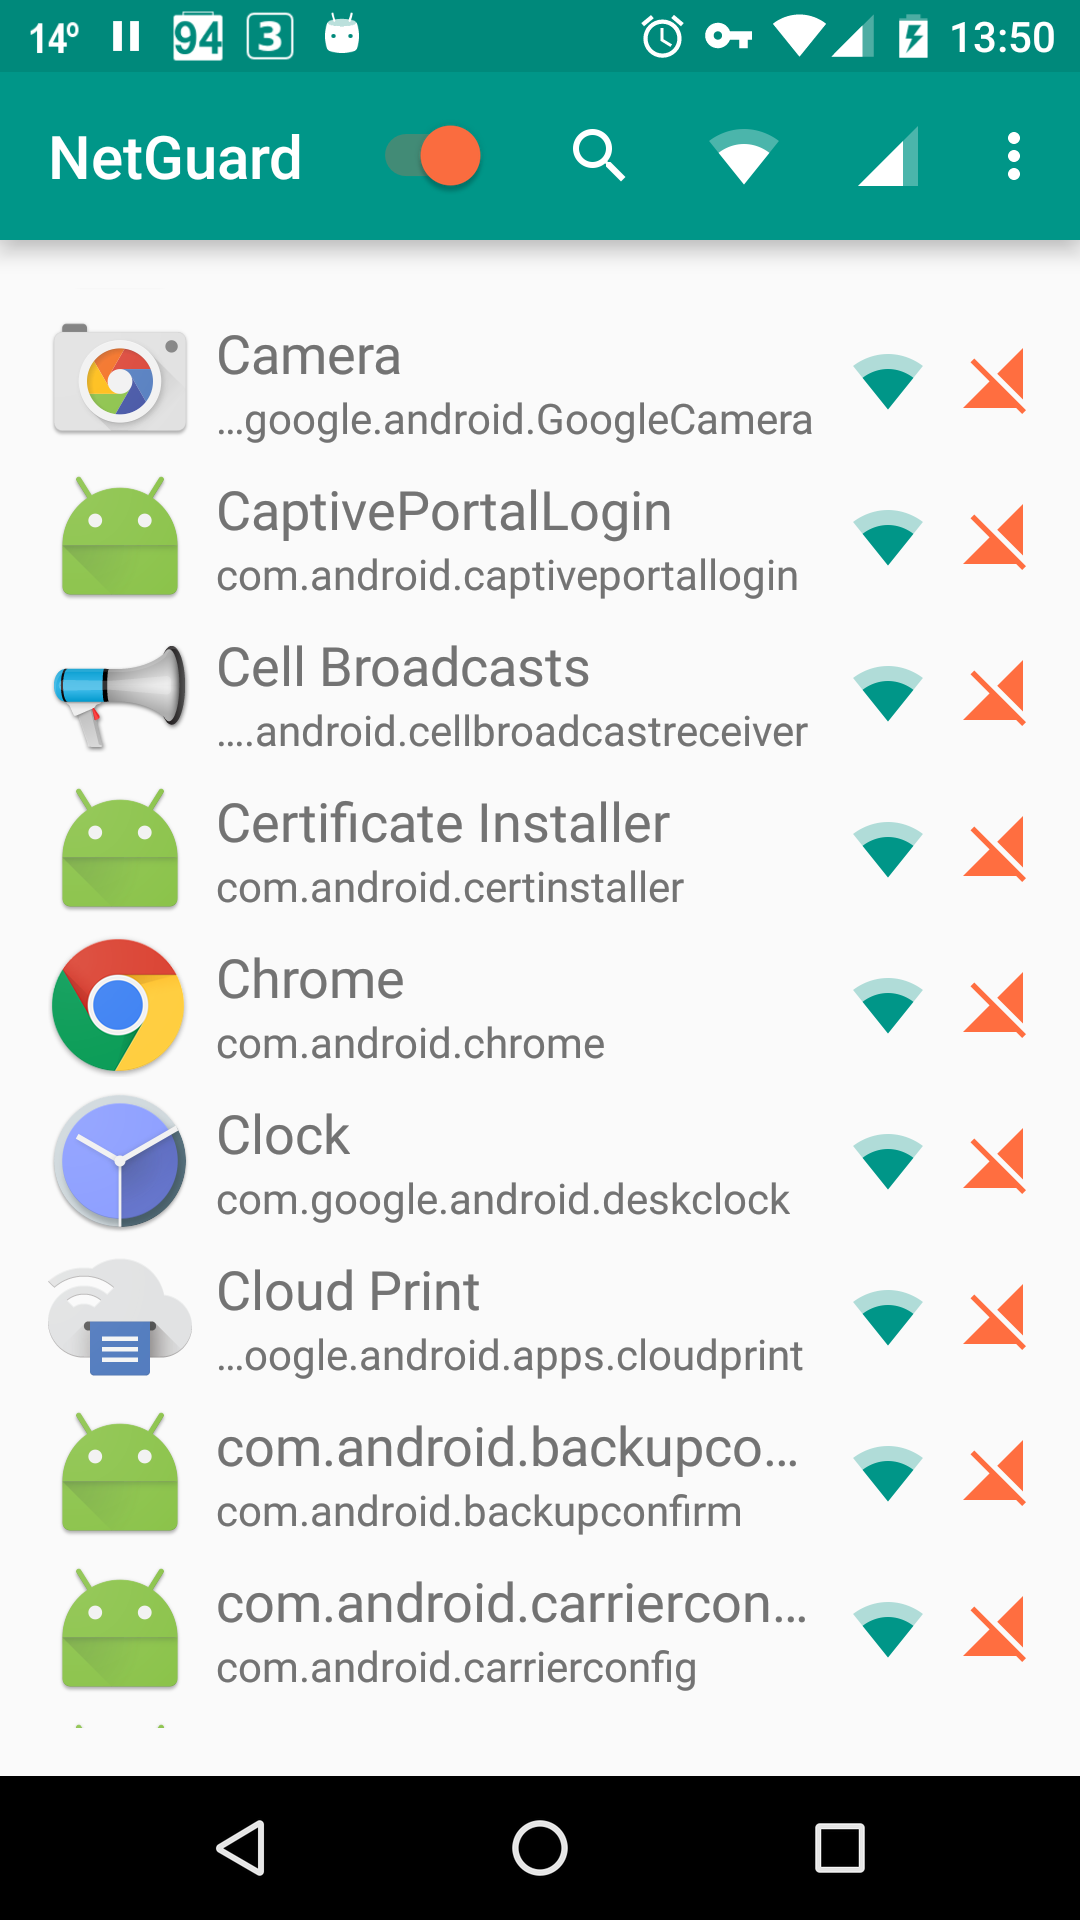
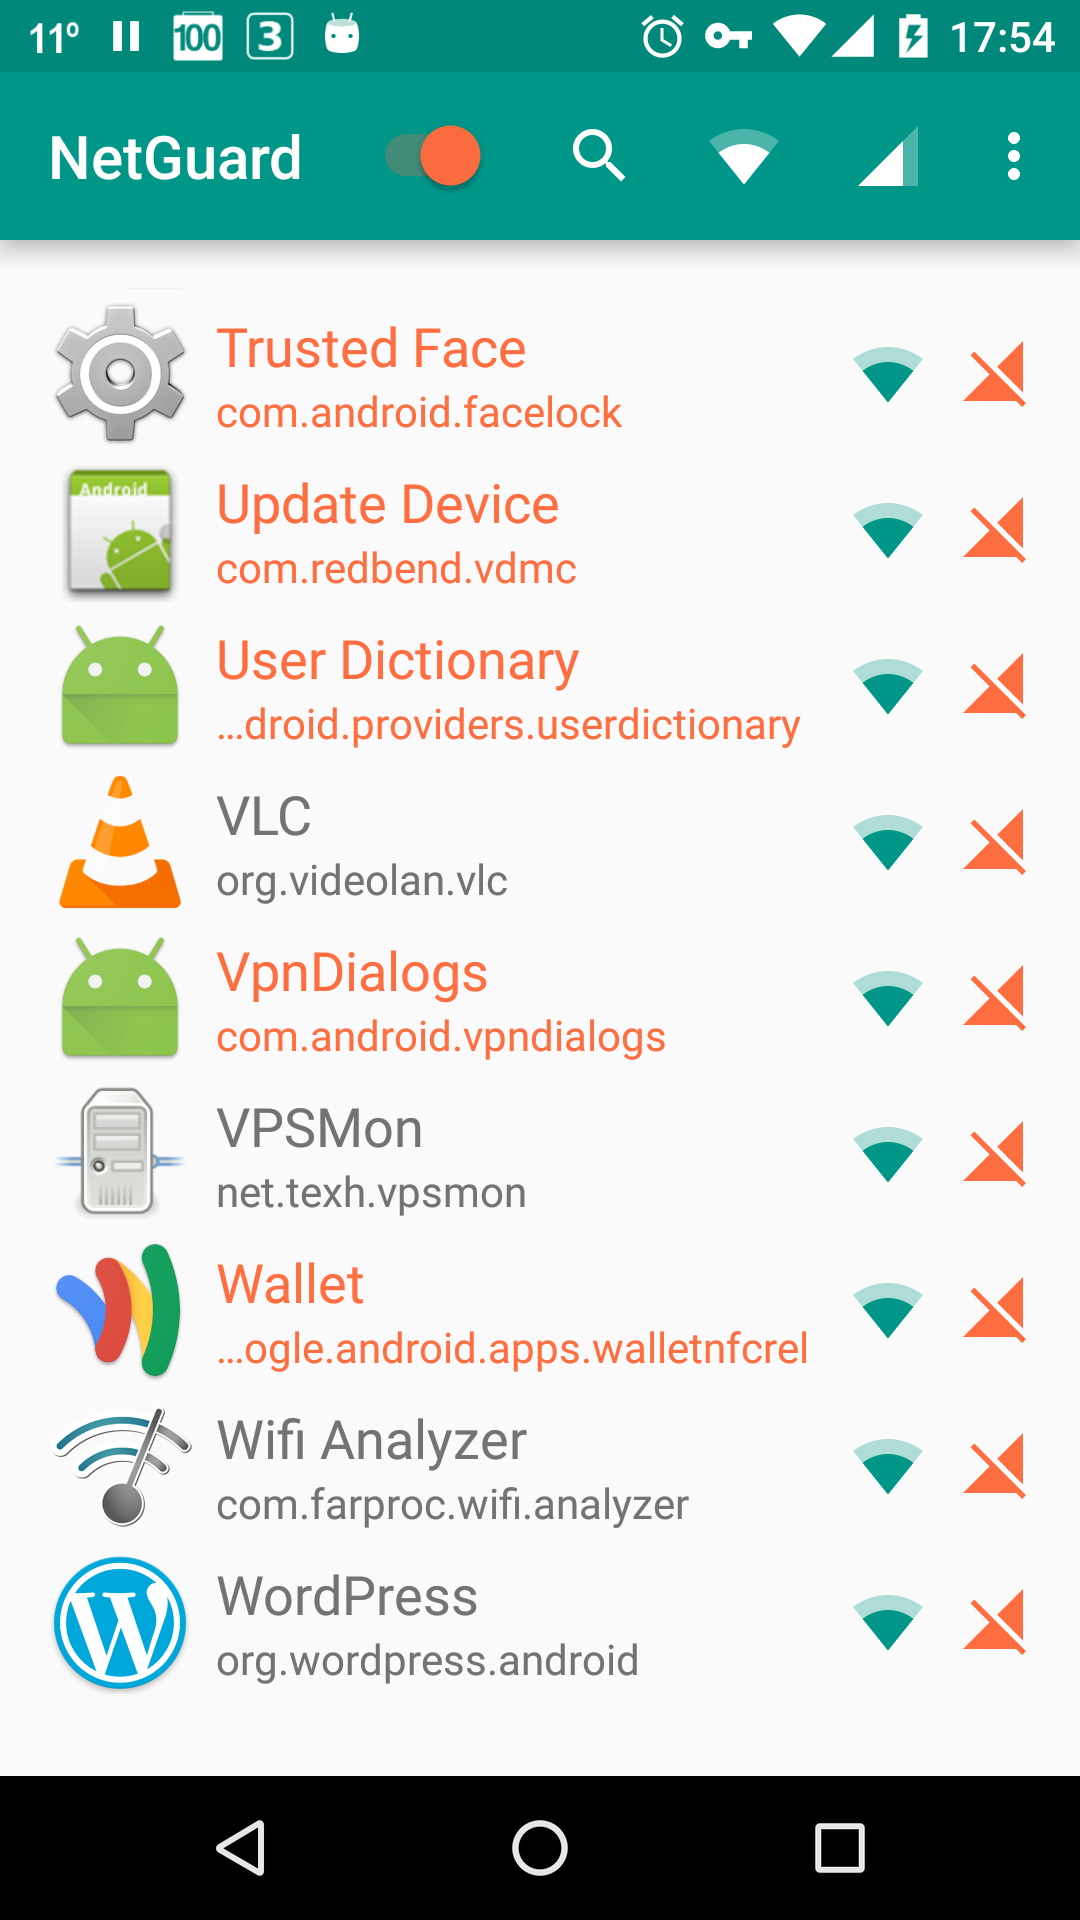
Orange system application names

diff --git a/app/src/main/java/eu/faircode/netguard/RuleAdapter.java b/app/src/main/java/eu/faircode/netguard/RuleAdapter.java
@@ -3,6 +3,8 @@ package eu.faircode.netguard;
 import android.content.Context;
 import android.content.Intent;
 import android.content.SharedPreferences;
+import android.content.res.TypedArray;
+import android.support.v4.content.ContextCompat;
 import android.support.v7.widget.RecyclerView;
 import android.util.Log;
 import android.view.LayoutInflater;
@@ -21,6 +23,9 @@ import java.util.List;
 public class RuleAdapter extends RecyclerView.Adapter<RuleAdapter.ViewHolder> implements Filterable {
     private static final String TAG = "NetGuard.RuleAdapter";
 
+    private Context context;
+    private int colorText;
+    private int colorAccent;
     private List<Rule> listAll;
     private List<Rule> listSelected;
 
@@ -43,7 +48,15 @@ public class RuleAdapter extends RecyclerView.Adapter<RuleAdapter.ViewHolder> im
         }
     }
 
-    public RuleAdapter(List<Rule> listRule) {
+    public RuleAdapter(List<Rule> listRule, Context context) {
+        this.context = context;
+        colorAccent = ContextCompat.getColor(context, R.color.colorAccent);
+        TypedArray ta = context.getTheme().obtainStyledAttributes(new int[]{android.R.attr.textColorSecondary});
+        try {
+            colorText = ta.getColor(0, 0);
+        } finally {
+            ta.recycle();
+        }
         listAll = listRule;
         listSelected = new ArrayList<>();
         listSelected.addAll(listRule);
@@ -68,8 +81,6 @@ public class RuleAdapter extends RecyclerView.Adapter<RuleAdapter.ViewHolder> im
                 }
                 Log.i(TAG, rule.info.packageName + ": " + name + "=" + isChecked);
 
-                Context context = buttonView.getContext();
-
                 SharedPreferences prefs = context.getSharedPreferences(name, Context.MODE_PRIVATE);
                 prefs.edit().putBoolean(rule.info.packageName, isChecked).apply();
 
@@ -81,9 +92,11 @@ public class RuleAdapter extends RecyclerView.Adapter<RuleAdapter.ViewHolder> im
             }
         };
 
-        holder.ivIcon.setImageDrawable(rule.getIcon(holder.view.getContext()));
+        holder.ivIcon.setImageDrawable(rule.getIcon(context));
         holder.tvName.setText(rule.name);
+        holder.tvName.setTextColor(rule.system ? colorAccent : colorText);
         holder.tvPackage.setText(rule.info.packageName);
+        holder.tvPackage.setTextColor(rule.system ? colorAccent : colorText);
 
         holder.cbWifi.setOnCheckedChangeListener(null);
         holder.cbWifi.setChecked(rule.wifi_blocked);
@@ -155,7 +168,7 @@ public class RuleAdapter extends RecyclerView.Adapter<RuleAdapter.ViewHolder> im
 
     @Override
     public RuleAdapter.ViewHolder onCreateViewHolder(ViewGroup parent, int viewType) {
-        return new ViewHolder(LayoutInflater.from(parent.getContext()).inflate(R.layout.rule, parent, false));
+        return new ViewHolder(LayoutInflater.from(context).inflate(R.layout.rule, parent, false));
     }
 
     @Override

diff --git a/app/src/main/java/eu/faircode/netguard/Rule.java b/app/src/main/java/eu/faircode/netguard/Rule.java
@@ -2,6 +2,7 @@ package eu.faircode.netguard;
 
 import android.content.Context;
 import android.content.SharedPreferences;
+import android.content.pm.ApplicationInfo;
 import android.content.pm.PackageInfo;
 import android.graphics.drawable.Drawable;
 
@@ -12,12 +13,14 @@ import java.util.List;
 public class Rule implements Comparable<Rule> {
     public PackageInfo info;
     public String name;
+    public boolean system;
     public boolean wifi_blocked;
     public boolean other_blocked;
 
     private Rule(PackageInfo info, boolean wifi_blocked, boolean other_blocked, Context context) {
         this.info = info;
         this.name = info.applicationInfo.loadLabel(context.getPackageManager()).toString();
+        this.system = ((info.applicationInfo.flags & ApplicationInfo.FLAG_SYSTEM) != 0);
         this.wifi_blocked = wifi_blocked;
         this.other_blocked = other_blocked;
     }

diff --git a/app/src/main/java/eu/faircode/netguard/ActivityMain.java b/app/src/main/java/eu/faircode/netguard/ActivityMain.java
@@ -123,7 +123,7 @@ public class ActivityMain extends AppCompatActivity implements SharedPreferences
             @Override
             protected void onPostExecute(List<Rule> result) {
                 if (running) {
-                    adapter = new RuleAdapter(result);
+                    adapter = new RuleAdapter(result, ActivityMain.this);
                     rvApplication.setAdapter(adapter);
                 }
             }
